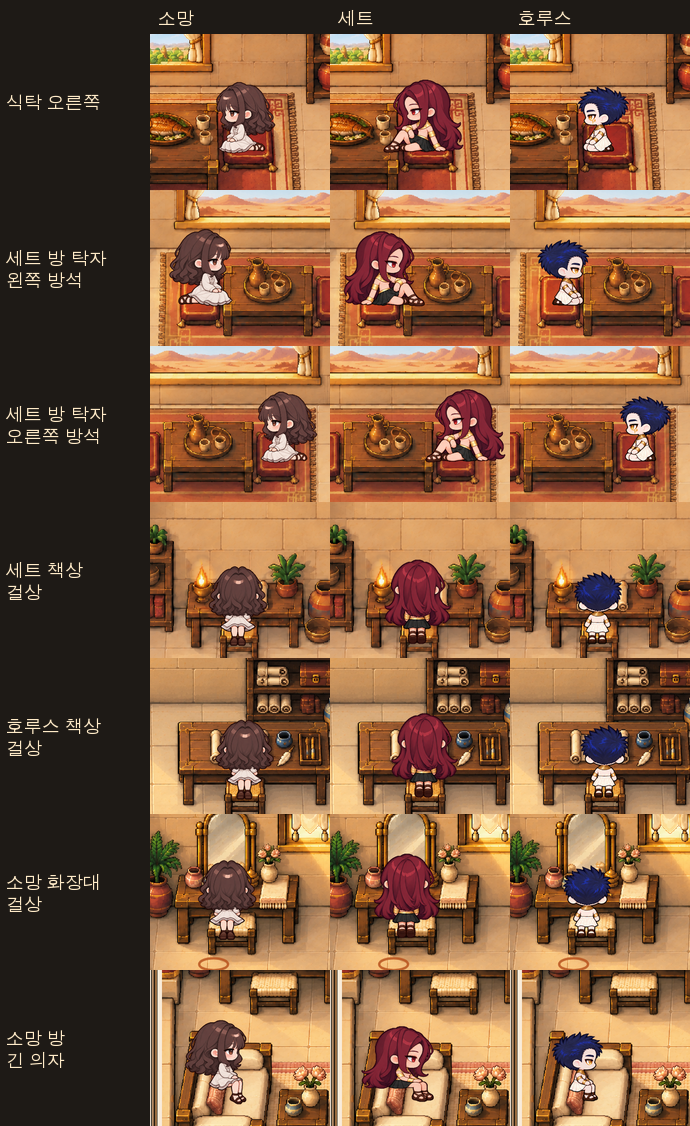
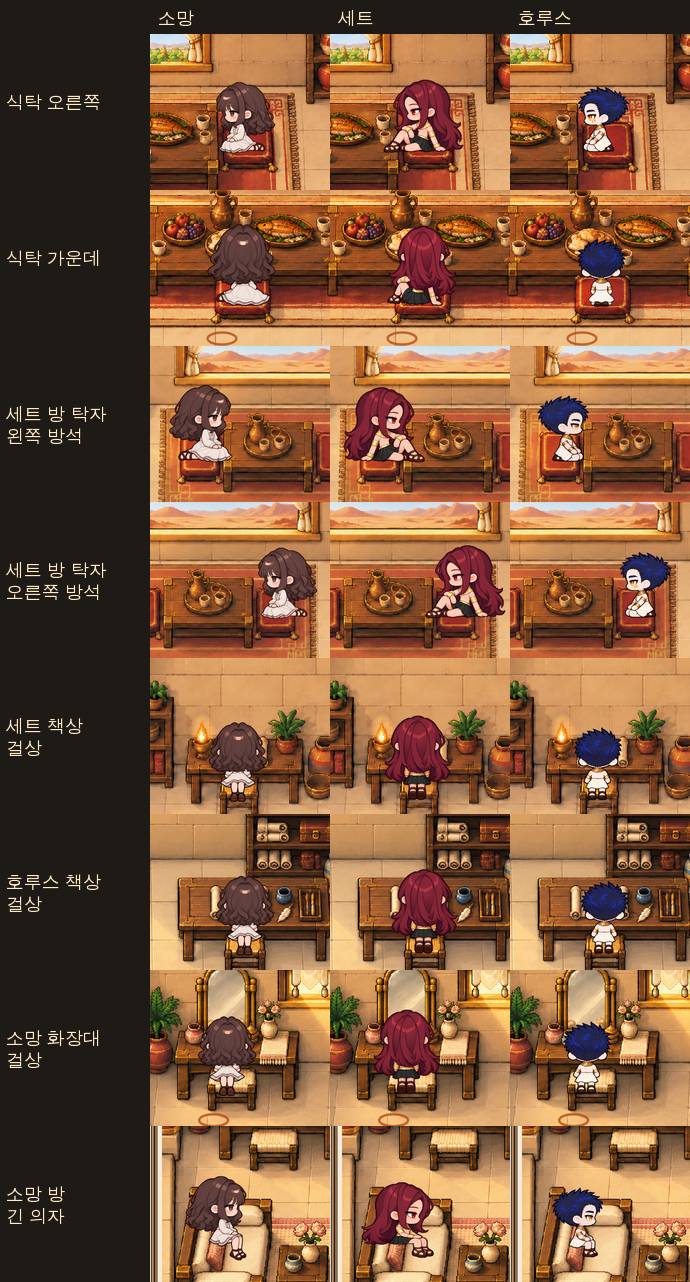
0.9.42 식탁 가운데 방석: 셋 다 뒷모습으로 앉음
Claude-Session: https://claude.ai/code/session_012wVD34xUYduugGp5rrKwnw

diff --git a/src/packs/life/rest.js b/src/packs/life/rest.js
@@ -16,8 +16,9 @@ const SEATS = {
     temple_table: [
         { x: 14.25, y: 5.4, dir: 'left', pose: 'sit-floor' },
         { x: 7.65, y: 5.4, dir: 'right', pose: 'sit-floor' },
-        { x: 10.95, y: 6.75, dir: 'up', pose: 'sit-floor' },
     ],
+    // the front cushion has its own place: from the table's one spot (its right end) it was never the nearest
+    temple_table_mid: [{ x: 10.95, y: 6.75, dir: 'up', pose: 'sit-floor' }],
     // Set's room: the low table has a cushion on each side; the desk has a stool (sitting there she faces the desk)
     set_table: [
         { x: 8.4, y: 5.35, dir: 'right', pose: 'sit-floor' },

diff --git a/tools/st-test/seats.js b/tools/st-test/seats.js
@@ -7,6 +7,7 @@ const SP = process.argv[2]; require('fs').mkdirSync(SP, { recursive: true });
 // [name, room, where to stand (feet), facing]
 const SEATS = [
   ['dining', 'temple_dining', [15.6, 7.0], 'up'],          // the table's one spot is at its right end: the right cushion
+  ['dining_mid', 'temple_dining', [11.0, 7.8], 'up'],
   ['set_table_l', 'set_room', [9.6, 6.8], 'up'],
   ['set_table_r', 'set_room', [10.9, 6.8], 'up'],
   ['set_desk', 'set_room', [4.15, 6.0], 'up'],

diff --git a/src/core/settings.js b/src/core/settings.js
@@ -2,7 +2,7 @@
 
 import { ctx } from './st.js';
 
-export const VERSION = '0.9.41';
+export const VERSION = '0.9.42';
 export const MODULE = 'sand_feather';
 export const PROMPT_KEY = 'sand_feather_world';
 export const UI_THEMES = [

diff --git a/tools/art/fix/seat-sheet.py b/tools/art/fix/seat-sheet.py
@@ -6,6 +6,7 @@ from PIL import Image, ImageDraw, ImageFont
 
 BOXES = {
     'dining': (250, 700, 550, 960),
+    'dining_mid': (260, 790, 560, 1050),
     'set_table_l': (330, 700, 630, 960),
     'set_table_r': (180, 700, 480, 960),
     'set_desk': (120, 620, 420, 880),
@@ -13,7 +14,7 @@ BOXES = {
     'somang_mirror': (70, 640, 370, 900),
     'somang_chair': (0, 800, 300, 1060),
 }
-LABELS = {'dining': '식탁 오른쪽', 'set_table_l': '세트 방 탁자\n왼쪽 방석', 'set_table_r': '세트 방 탁자\n오른쪽 방석', 'set_desk': '세트 책상\n걸상',
+LABELS = {'dining': '식탁 오른쪽', 'dining_mid': '식탁 가운데', 'set_table_l': '세트 방 탁자\n왼쪽 방석', 'set_table_r': '세트 방 탁자\n오른쪽 방석', 'set_desk': '세트 책상\n걸상',
           'horus_desk': '호루스 책상\n걸상', 'somang_mirror': '소망 화장대\n걸상', 'somang_chair': '소망 방\n긴 의자'}
 WHO = [('somang', '소망'), ('set', '세트'), ('horus', '호루스')]
 

diff --git a/tools/maps/residence.py b/tools/maps/residence.py
@@ -204,7 +204,8 @@ SCENES = {
         'solid': [[0, 0, 22, 3.9], [0, 0, 0.8, 11], [21.2, 0, 22, 11], [0.8, 0, 6.2, 4.2], [15.8, 0, 21.2, 4.5],
                   [7.0, 4.1, 15.0, 6.4], [10.2, 6.0, 11.8, 7.1], [0, 9.1, 9.3, 11], [12.6, 9.1, 22, 11]],
         'exits': [[ROOM_DOOR, 'temple_courtyard', 'east']], 'entry': {'door': [11, 8.6, 'up']}, 'spawn': 'door',
-        'spots': [{'id': 'temple_table', 'x': 15.6, 'y': 6.6, 'title': '식탁', 'text': '낮은 식탁에 방석 세 자리. 나눠 먹을 음식이 놓여 있다.'}],
+        'spots': [{'id': 'temple_table', 'x': 15.6, 'y': 6.6, 'title': '식탁', 'text': '낮은 식탁에 방석 세 자리. 나눠 먹을 음식이 놓여 있다.'},
+                  {'id': 'temple_table_mid', 'x': 10.45, 'y': 7.2, 'title': '식탁 가운데 방석', 'text': '식탁 앞 가운데 방석. 음식이 한눈에 보인다.'}],
     },
     'temple_sanctuary': {
         'name': '성소', 'day': 'set-sanctuary-v6-neutral.png', 'size': [22, 11],

diff --git a/docs/OPUS-HANDOFF.md b/docs/OPUS-HANDOFF.md
@@ -1,6 +1,6 @@
 # 오푸스 인수인계 — 게임 적용과 코드 (지금 기준만)
 
-**오푸스용 문서다.** 갱신 2026-10-12, **0.9.41** 기준. 처음 온 오푸스는 이 문서 하나만 처음부터 끝까지 읽으면 바로 일할 수 있게 썼다. 버전별 변경은 `CHANGELOG.md`, 작업별 상세는 아래 표의 기록 문서에 있다. 그림 작업 규칙은 아스트라용 [ASTRA-HANDOFF.md](ASTRA-HANDOFF.md)·[ASTRA-PLAN.md](ASTRA-PLAN.md)에 있다. 아트를 받을 때 채택 상태와 명세를 확인하는 용도로 본다.
+**오푸스용 문서다.** 갱신 2026-10-12, **0.9.42** 기준. 처음 온 오푸스는 이 문서 하나만 처음부터 끝까지 읽으면 바로 일할 수 있게 썼다. 버전별 변경은 `CHANGELOG.md`, 작업별 상세는 아래 표의 기록 문서에 있다. 그림 작업 규칙은 아스트라용 [ASTRA-HANDOFF.md](ASTRA-HANDOFF.md)·[ASTRA-PLAN.md](ASTRA-PLAN.md)에 있다. 아트를 받을 때 채택 상태와 명세를 확인하는 용도로 본다.
 
 ## 이 게임
 
@@ -50,7 +50,7 @@ SillyTavern 확장 "모래와 깃털"이다. 이집트 옴보스를 배경으로
 
 ## 버전과 검증
 
-- 버전은 `manifest.json`의 `version`과 `src/core/settings.js`의 `VERSION`을 같이 올린다. 지금은 **0.9.41**이다. 올릴 때 `CHANGELOG.md` 맨 위에 한 줄, README의 "현재 버전" 줄, 이 문서의 이 줄과 맨 위 기준 버전도 고친다. README에는 버전 내역을 쌓지 않는다.
+- 버전은 `manifest.json`의 `version`과 `src/core/settings.js`의 `VERSION`을 같이 올린다. 지금은 **0.9.42**이다. 올릴 때 `CHANGELOG.md` 맨 위에 한 줄, README의 "현재 버전" 줄, 이 문서의 이 줄과 맨 위 기준 버전도 고친다. README에는 버전 내역을 쌓지 않는다.
 - **검증 스크립트 세 개**(`tools/art/`, ST가 떠 있고 확장이 들어가 있어야 함). 출력 폴더를 인자로 준다. 셋 다 exit 0이어야 한다:
   ```sh
   export NODE_PATH=/opt/node-tools/node_modules
@@ -73,7 +73,7 @@ SillyTavern 확장 "모래와 깃털"이다. 이집트 옴보스를 배경으로
   - `bed-measure.js <폴더> '<[누구,[x,y,방향],이름] 목록>' [방]`: 한 사람만 침대 자리에 눕힌 화면과 뺀 화면. 두 장 차이의 박스가 그 사람(머리 위끝·턱 높이 재기)
   - 폰 크기는 412×900. 안채나 맵을 고치면 출구 걷기·낮밤도 본다.
 
-## 게임 지금 상태 — 0.9.41
+## 게임 지금 상태 — 0.9.42
 
 | 영역 | 내용 | 자세한 기록 |
 |---|---|---|
@@ -85,7 +85,7 @@ SillyTavern 확장 "모래와 깃털"이다. 이집트 옴보스를 배경으로
 | 자세히 카드 | `tabs.js characterCard(ui, id)`: 그림, 모험 등급, 능력치, 배움(앞장일 때만 고름). 그림은 `portraits.js picture(id)` → `data/art/portraits/gallery/` 일러스트(`GALLERY = {somang:1, set:3, horus:3}`, 한 장이면 ‹ › 숨김). 소망 일러스트는 원본 704×1216을 위쪽 2:3으로 잘라 512×768 WebP. 원본은 `docs/art/portraits-illust/gallery/`. 대화 카드 상반신과 미소 버튼은 뺐다(다시 넣지 않는다) | CHANGELOG 0.9.29·0.9.30 |
 | 셋소호 스프라이트 | 최종 48장(`docs/art/chibi-refresh/final/`: 정지 12장 620×720 발 기준점(310,662) 기준 키 576, 걷기 36장 360×400 기준점(180,370) 기준 키 330)과 채택 동작을 `tools/art/pack-trio-motion.py`로 패킹한다. `final/manifest.json`의 `runtimeEligible`이 true여야 한다. 결과는 캐릭터마다 한 장: `data/art/characters/trio-motion-<누구>.png`(256px, 0.9.34 기준 가장 큰 세트 2866×1297)·`-small.png`(폰 125px), 연결은 `data/sprites.json`의 `looks.<who>.motion`(`file`, `small.file`). 표시 높이 31.2 논리 px(폰에서 얼굴이 손톱만 함), 걷기 0-1-2-1 180ms. **아틀라스가 4096px을 넘으면 폰에서 안 그려질 수 있다.** 그래서 0.9.33에 캐릭터별로 나눴다. 동작이 더 늘어 한 캐릭터 것이 4096에 가까워지면 동작을 그 캐릭터의 두 번째 아틀라스로 나눈다(렌더러는 `motion.file`/`small.file` 하나만 읽으므로 그때 프레임마다 파일을 가리키게 바꿔야 한다) | [TRIO-MOTION-098.md](TRIO-MOTION-098.md) |
 | 동작 | `motion.acts[동작][방향][프레임]` + `actPlay[동작] = {frameMs, loop, hold}`. 그리는 쪽 `render.js motionPerson`의 `anim.act`: 보통은 한 번 재생 후 마지막 장 220ms 머물고 정지, `hold`(앉기)는 마지막 장 유지, `loop`(잠들기)는 반복. hold·loop일 땐 발 그림자를 안 그린다. 프레임의 기준점은 manifest `anchor`(발 / 앉은 자리 / 몸 가운데)가 그대로 pivot이 된다. **말 걸기**(`interact`): 셋 다 4방향(소망 172, 세트 174·175, 호루스 176·177). **줍기**(`pickup`): 셋 다 4방향(소망 181, 호루스 182, 세트 185; 세트·호루스는 `pickup-trio-v182` 한 폴더). 땅의 것(모험 touch·find, 벽화 아닌 비밀)은 thing에 `pose: 'pickup'`, 그 캐릭터에게 그림이 없으면 손 뻗기(`window.js talk`, 카드가 열리기까지 `ACT_MS` = interact 260 / pickup 380ms). **앉기**: 셋 다(소망 방석 왼쪽 179 + `sit-trio-v190` 14장). 한 묶음 안의 자리별 그림은 패커가 파일의 `seatType`으로 동작 이름을 나눈다: `sit-floor`(방석 왼·오·위), `sit-stool`(걸상, 위), `sit-bench`(긴 의자, 오른쪽). 기준점은 파일마다 manifest의 엉덩이 아래(seat-bottom). **잠들기**(`sleep`): 셋 다 2프레임 숨쉬기 800ms loop(`sleep-trio-v220`), 바로 눕기 `down`, 세트·호루스 옆잠 `right` | 아래 "동작 넣는 법" |
-| 게임 하루·쉬기 | `src/core/rest.js`, `src/packs/life/rest.js`. 게임 하루 = `ledger.today(s)` = 챗 날짜와 `s.ledger.gday` 중 늦은 쪽(태양 기운·매일 의뢰·결산·텃밭·하루 한 번 행동이 전부 이걸 씀). 침대(`set_bed`)에서 `sleepNow`: 태양 기운이 절반 이하일 때만, `gday = today+1` → `newDays` → `day:started`(태양 기운·의뢰·결산이 기존 흐름대로). 챗이 그 날짜에 오면 새 날이 아니라 두 번 안 센다. 자고 나면 `s.wake = {part:'dawn', raw}`로 화면 시간대만 아침(`partNow(s)`, 챗 트래커 raw가 바뀌면 해제). 게임 판정(비밀, 두아트 문, 선착장, 축제, HUD, 그림)은 `partNow`, **챗 주입·모험 생성·서랍은 `s.part` 그대로.** 화면 위 날짜도 챗 날짜 그대로다. 앉아 쉬기(`temple_table`, `colonnade_seat`)는 태양 기운 +1, 게임 하루 2번(`ledger.acts rest:sit:1/2`), 가득 차 있으면 횟수를 안 씀. 자리 좌표는 `packs/life/rest.js SEATS/BEDS`: 자세 기준점이 놓이는 칸 좌표·방향·동작 이름. 앉을 곳(0.9.41): 식사 공간 `temple_table`(방석 셋이지만 장소 표시가 식탁 오른쪽 끝 하나라 늘 오른쪽 방석), 세트 방 `set_table`(낮은 탁자 왼쪽 8.4·오른쪽 12.3 방석, 선 자리에 가까운 쪽), `set_desk`·`horus_desk`·`somang_mirror`(걸상 뒷모습), `somang_chair`(소망 방 긴 의자, 오른쪽 보기). `colonnade_seat`(열주 계단 긴 의자)는 정면으로 앉는 그림이 없어 아직 비어 있다. 앉거나 누워 있는 동안 머리 위 "살펴보기" 표시는 숨긴다(`window.js draw`). 그 캐릭터·방향 그림이 있을 때만 앉은·누운 그림(`player.holdPose`, 원래 자리는 `player.seat`에 보관, 저장 위치도 원래 자리), 없으면 선 채로 효과만. 움직이거나 말 걸기를 누르면 원래 자리에서 일어남(`getUp`). 침대 이불로 몸을 가리는 occluder는 아직 없다(누운 그림이 이불 위에 보임). 0.9.34부터 셋 다 잠들기 2프레임(숨쉬기, `sleep-trio-v220`): 바로 눕기 `sleep.down`, 세트·호루스 옆으로 눕기 `sleep.right`(패킹만, 같이 자기용, 아직 안 씀). 자리는 `BEDS.set_bed`에 사람별: 소망 오른쪽 베개(x 17.55, y 3.98; 0.9.35 머리 112 %·몸 85 %로 바꾼 뒤), 세트·호루스 왼쪽(15.7), `side`(옆으로, 왼쪽 베개, 오른쪽을 봄). `bedPlace(id, who, side)`. 같이 자기: `bedPair(id, lead, mate)` → 오른쪽 베개는 소망(없으면 호루스, `BEDS.right`), 왼쪽은 옆잠(`side`). 동행 자세는 `player.mate`(`holdMate`, `getUp`·`placePlayer`가 지움), `window.js draw()`가 동행을 따라오는 대신 그 자리에 눕혀 그린다. 0.9.40부터 호루스 방 침대(`horus_bed`, 스팟 6.2,7.2)도 같다: 같은 침대 그림이 91 % 크기라(머리판·베개로 맞춤, 상관 0.95) 세트 침대 자리를 그대로 옮겼다(머리는 기준점 0.75칸 위로 두고 베개에 맞춤, 소망만 x 5.32로 세트 머리와 안 겹치게) | CHANGELOG 0.9.32 |
+| 게임 하루·쉬기 | `src/core/rest.js`, `src/packs/life/rest.js`. 게임 하루 = `ledger.today(s)` = 챗 날짜와 `s.ledger.gday` 중 늦은 쪽(태양 기운·매일 의뢰·결산·텃밭·하루 한 번 행동이 전부 이걸 씀). 침대(`set_bed`)에서 `sleepNow`: 태양 기운이 절반 이하일 때만, `gday = today+1` → `newDays` → `day:started`(태양 기운·의뢰·결산이 기존 흐름대로). 챗이 그 날짜에 오면 새 날이 아니라 두 번 안 센다. 자고 나면 `s.wake = {part:'dawn', raw}`로 화면 시간대만 아침(`partNow(s)`, 챗 트래커 raw가 바뀌면 해제). 게임 판정(비밀, 두아트 문, 선착장, 축제, HUD, 그림)은 `partNow`, **챗 주입·모험 생성·서랍은 `s.part` 그대로.** 화면 위 날짜도 챗 날짜 그대로다. 앉아 쉬기(`temple_table`, `colonnade_seat`)는 태양 기운 +1, 게임 하루 2번(`ledger.acts rest:sit:1/2`), 가득 차 있으면 횟수를 안 씀. 자리 좌표는 `packs/life/rest.js SEATS/BEDS`: 자세 기준점이 놓이는 칸 좌표·방향·동작 이름. 앉을 곳(0.9.41): 식사 공간 `temple_table`(식탁 오른쪽 끝 장소, 오른쪽 방석)·`temple_table_mid`(앞 가운데 방석, 뒷모습. 0.9.42), 세트 방 `set_table`(낮은 탁자 왼쪽 8.4·오른쪽 12.3 방석, 선 자리에 가까운 쪽), `set_desk`·`horus_desk`·`somang_mirror`(걸상 뒷모습), `somang_chair`(소망 방 긴 의자, 오른쪽 보기). `colonnade_seat`(열주 계단 긴 의자)는 정면으로 앉는 그림이 없어 아직 비어 있다. 앉거나 누워 있는 동안 머리 위 "살펴보기" 표시는 숨긴다(`window.js draw`). 그 캐릭터·방향 그림이 있을 때만 앉은·누운 그림(`player.holdPose`, 원래 자리는 `player.seat`에 보관, 저장 위치도 원래 자리), 없으면 선 채로 효과만. 움직이거나 말 걸기를 누르면 원래 자리에서 일어남(`getUp`). 침대 이불로 몸을 가리는 occluder는 아직 없다(누운 그림이 이불 위에 보임). 0.9.34부터 셋 다 잠들기 2프레임(숨쉬기, `sleep-trio-v220`): 바로 눕기 `sleep.down`, 세트·호루스 옆으로 눕기 `sleep.right`(패킹만, 같이 자기용, 아직 안 씀). 자리는 `BEDS.set_bed`에 사람별: 소망 오른쪽 베개(x 17.55, y 3.98; 0.9.35 머리 112 %·몸 85 %로 바꾼 뒤), 세트·호루스 왼쪽(15.7), `side`(옆으로, 왼쪽 베개, 오른쪽을 봄). `bedPlace(id, who, side)`. 같이 자기: `bedPair(id, lead, mate)` → 오른쪽 베개는 소망(없으면 호루스, `BEDS.right`), 왼쪽은 옆잠(`side`). 동행 자세는 `player.mate`(`holdMate`, `getUp`·`placePlayer`가 지움), `window.js draw()`가 동행을 따라오는 대신 그 자리에 눕혀 그린다. 0.9.40부터 호루스 방 침대(`horus_bed`, 스팟 6.2,7.2)도 같다: 같은 침대 그림이 91 % 크기라(머리판·베개로 맞춤, 상관 0.95) 세트 침대 자리를 그대로 옮겼다(머리는 기준점 0.75칸 위로 두고 베개에 맞춤, 소망만 x 5.32로 세트 머리와 안 겹치게) | CHANGELOG 0.9.32 |
 | 카드(팝업) | `src/ui/popups.js`의 `showCard`. 테두리와 제목은 고정, 안쪽 `.sf_pop_scroll`만 스크롤 | CHANGELOG 0.9.22 |
 | 성능 | 지도는 보이는 부분만 그린다. 이동은 실제 시간 기준 0.05초 단위. 지도 그림은 그 지도에 있을 때만 풀어 둔다(`lazy`). 잠든 동안만 걷기 fps로 그린다(호흡) | [PERF-0917.md](PERF-0917.md) |
 | 상인 | 옛 `pocket-chibi.png`(townsman) 그대로. `pack-pocket-sprites.cjs`는 돌리지 않는다 | |

diff --git a/CHANGELOG.md b/CHANGELOG.md
@@ -2,6 +2,8 @@
 
 README에서 옮긴 버전별 변경 내역이다. 위가 최신이다. 지금 상태는 [README](README.md)와 [오푸스 인수인계](docs/OPUS-HANDOFF.md)를 본다.
 
+**0.9.42:** 식사 공간 식탁 앞 가운데 방석에 장소(`temple_table_mid`)를 따로 둬서 셋 다 뒷모습으로 앉는다(식탁 장소는 오른쪽 끝 하나라 가운데 방석이 쓰이지 않았다).
+
 **0.9.41:** 앉기 190 14장을 넣었다. 셋 다 방석 3방향·걸상 뒷모습·긴 의자 오른쪽(소망 방석 왼쪽은 179). 앉을 곳: 식사 공간 식탁, 세트 방 낮은 탁자 양쪽 방석, 세트·호루스 책상 걸상, 소망 화장대 걸상, 소망 방 긴 의자(모두 앉아 쉬기, 태양 기운 +1). 패커가 한 묶음의 자리별 그림을 `sit-floor`·`sit-stool`·`sit-bench`로 나눈다. 앉거나 누워 있는 동안 머리 위 "살펴보기" 표시를 숨기고, label 없는 안채 장소가 "undefined"로 뜨던 것을 이름으로 고쳤다.
 
 **0.9.40:** 호루스 방 침대에서도 잔다. 세트 침대와 같은 그림이 91 % 크기라 자리를 그대로 옮겼다: 혼자 자기, 같이 자기 여섯 조합 모두 세트 방과 같은 배치(소망 오른쪽 베개, 세트·호루스 왼쪽 옆잠).

diff --git a/README.md b/README.md
@@ -20,7 +20,7 @@
 
 세트·호루스 RP 채팅 옆에서 돌아가는 이집트 오픈월드 게임이다. SillyTavern 확장으로 동작한다.
 
-**현재 버전 0.9.41.** 버전별 변경 내역은 [CHANGELOG.md](CHANGELOG.md)에 있다.
+**현재 버전 0.9.42.** 버전별 변경 내역은 [CHANGELOG.md](CHANGELOG.md)에 있다.
 
 ## 작업자는 여기부터
 
